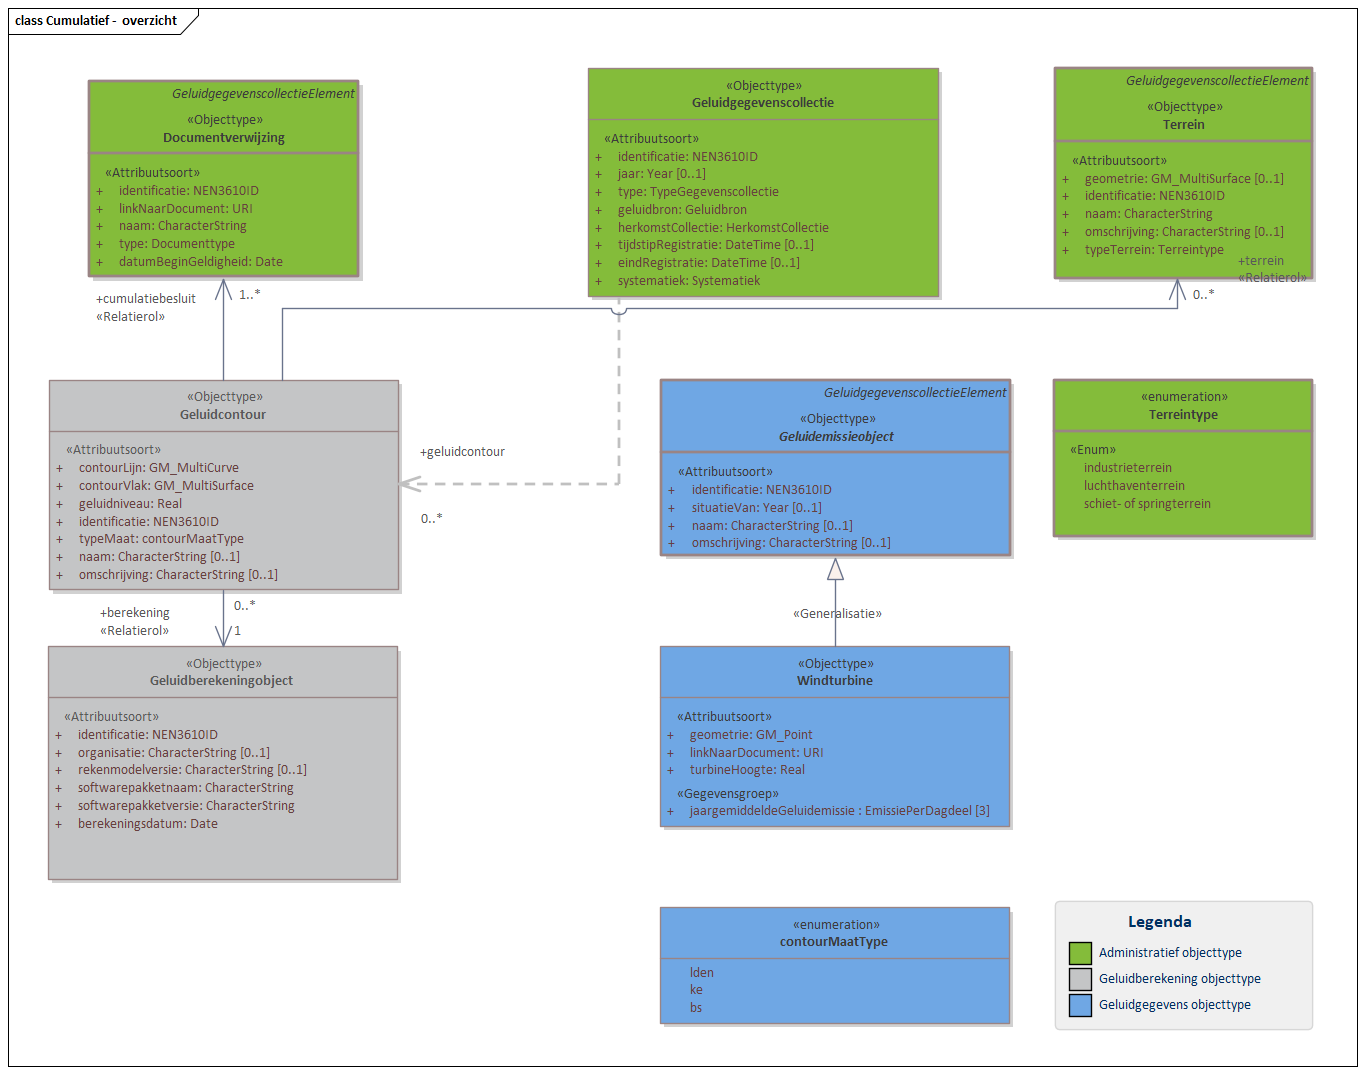
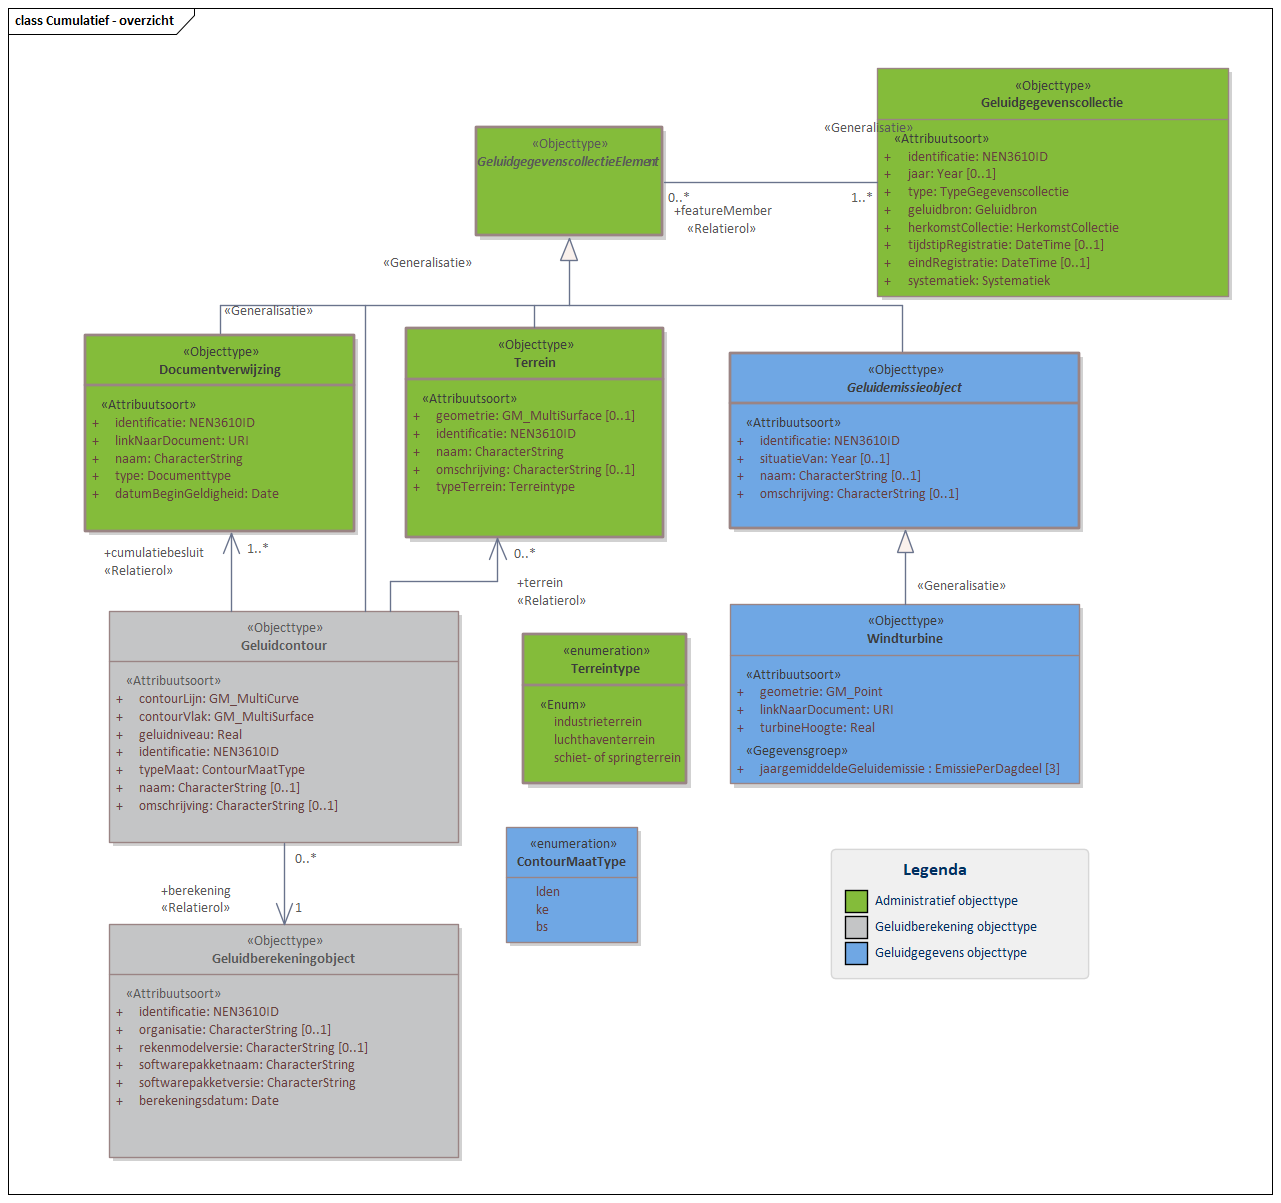
MIMLM-InformatiemodelGeluid-1.0-0-20210319-20210416-110558

diff --git a/data/img-cat.respec.html b/data/img-cat.respec.html
@@ -1,10 +1,10 @@
 
 <section id="cat" class="normative">
    <h2>Gegevensdefinitie</h2>
-   <!--MIMLM-InformatiemodelGeluid-1.0-0-20210319-20210416-085432 imvertor 1.61.3-->
+   <!--MIMLM-InformatiemodelGeluid-1.0-0-20210319-20210416-110558 imvertor 1.61.3-->
    <section id="EAID_66AE8FA2_74FC_4d4d_B2B2_249C8D6A651F">
       <h3>Diagram   Basismodel - overzicht</h3>
-      <div class="imageinfo overview"><img src="data/Images/EAID_66AE8FA2_74FC_4d4d_B2B2_249C8D6A651F.png" usemap="#imagemap-EAID_66AE8FA2_74FC_4d4d_B2B2_249C8D6A651F" alt="Diagram Het Basismodel vormt de samenhang tussen alle domeinen van het IMGeluid. Alle objecttypen en relaties uit het IMGeluid komen samen in een Geluidgegevenscollectie.&#xA;Binnen het IMGeluid worden geluidbrongegevens die gebruikt worden voor GPP en BGE berekeningen, gemodelleerd als een Geluidemissie of Geluidoverdrachtobject. De resultaten van GPP of BGE berekeningen worden opgeslagen in een Geluidgegevenscollectie. De onderliggende juridische vastleggingen, vaststellingen, of monitoringsverslagen van deze omgevings- of monitoringswaarden, worden ook opgeslagen in dezelfde Geluidgegevenscollectie.&#xA;Per geluidbron per toepassing kan er een Geluidgegevenscollectie bestaan. Deze kan geassocieerd worden met maximaal 1 Geluidaandachtsgebied. Wanneer geluidgegevens met betrekking tot cumulatieberekeningen worden aangeleverd, bevat een Geluidgegevenscollectie geen Geluidaandachtsgebied.&#xA;&#xA;&#xA;Klik met de rechtermuisknop op het diagram om de afbeelding op volledige grote in een nieuw tabblad te openen."><map name="imagemap-EAID_66AE8FA2_74FC_4d4d_B2B2_249C8D6A651F"><area shape="rect" alt="GeluidgegevenscollectieElement" coords="411,164,648,260" href="#graph_EAID_924BD078_D715_461a_B7E9_D7176A7406E0"><area shape="rect" alt="Monitoringresultaat" coords="679,858,958,1010" href="#graph_EAID_BA00B77B_D408_4590_8185_CE59E5838F1E"><area shape="rect" alt="Basisgeluidemissieobject" coords="190,890,495,1026" href="#graph_EAID_9AD15457_4880_42e5_8C72_4E5EFAC91B15"><area shape="rect" alt="Geluidproductieplafondobject" coords="1166,782,1451,1045" href="#graph_EAID_237408F8_8CE9_4828_B8FB_1A5B8C917622"><area shape="rect" alt="Geluidberekeningobject" coords="679,1118,994,1317" href="#graph_EAID_97ED59FE_9FCA_49a6_8F07_214E48000B76"><area shape="rect" alt="Documentverwijzing" coords="746,503,1003,678" href="#graph_EAID_7E137496_1028_4af5_9367_569358A2167B"><area shape="rect" alt="Geluidaandachtsgebied" coords="1266,283,1512,422" href="#graph_EAID_B06128AC_518C_4e26_88E5_14ED5A050A19"><area shape="rect" alt="Geluidgegevenscollectie" coords="812,68,1155,297" href="#graph_EAID_313C5AF9_49B8_4860_9E65_DE7C70084864"><area shape="rect" alt="Geluidemissieobject" coords="171,409,437,569" href="#graph_EAID_361C96BA_A638_494e_80BA_590ED481A81B"><area shape="rect" alt="Geluidoverdrachtobject" coords="197,622,476,758" href="#graph_EAID_2FEA326B_B7E7_48a4_B50F_00CCB2694677"></map><p><b>Basismodel - overzicht</b> — Het Basismodel vormt de samenhang tussen alle domeinen van het IMGeluid. Alle objecttypen
+      <div class="imageinfo overview"><img src="data/Images/EAID_66AE8FA2_74FC_4d4d_B2B2_249C8D6A651F.png" usemap="#imagemap-EAID_66AE8FA2_74FC_4d4d_B2B2_249C8D6A651F" alt="Diagram Het Basismodel vormt de samenhang tussen alle domeinen van het IMGeluid. Alle objecttypen en relaties uit het IMGeluid komen samen in een Geluidgegevenscollectie.&#xA;Binnen het IMGeluid worden geluidbrongegevens die gebruikt worden voor GPP en BGE berekeningen, gemodelleerd als een Geluidemissie of Geluidoverdrachtobject. De resultaten van GPP of BGE berekeningen worden opgeslagen in een Geluidgegevenscollectie. De onderliggende juridische vastleggingen, vaststellingen, of monitoringsverslagen van deze omgevings- of monitoringswaarden, worden ook opgeslagen in dezelfde Geluidgegevenscollectie.&#xA;Per geluidbron per toepassing kan er een Geluidgegevenscollectie bestaan. Deze kan geassocieerd worden met maximaal 1 Geluidaandachtsgebied. Wanneer geluidgegevens met betrekking tot cumulatieberekeningen worden aangeleverd, bevat een Geluidgegevenscollectie geen Geluidaandachtsgebied.&#xA;&#xA;&#xA;Klik met de rechtermuisknop op het diagram om de afbeelding op volledige grote in een nieuw tabblad te openen."><map name="imagemap-EAID_66AE8FA2_74FC_4d4d_B2B2_249C8D6A651F"><area shape="rect" alt="GeluidgegevenscollectieElement" coords="477,164,713,260" href="#graph_EAID_924BD078_D715_461a_B7E9_D7176A7406E0"><area shape="rect" alt="Monitoringresultaat" coords="745,858,1024,1010" href="#graph_EAID_BA00B77B_D408_4590_8185_CE59E5838F1E"><area shape="rect" alt="Basisgeluidemissieobject" coords="256,890,560,1026" href="#graph_EAID_9AD15457_4880_42e5_8C72_4E5EFAC91B15"><area shape="rect" alt="Geluidproductieplafondobject" coords="1231,782,1517,1045" href="#graph_EAID_237408F8_8CE9_4828_B8FB_1A5B8C917622"><area shape="rect" alt="Geluidberekeningobject" coords="745,1118,1059,1317" href="#graph_EAID_97ED59FE_9FCA_49a6_8F07_214E48000B76"><area shape="rect" alt="Documentverwijzing" coords="812,503,1069,678" href="#graph_EAID_7E137496_1028_4af5_9367_569358A2167B"><area shape="rect" alt="Geluidaandachtsgebied" coords="1331,283,1577,422" href="#graph_EAID_B06128AC_518C_4e26_88E5_14ED5A050A19"><area shape="rect" alt="Geluidgegevenscollectie" coords="877,68,1220,297" href="#graph_EAID_313C5AF9_49B8_4860_9E65_DE7C70084864"><area shape="rect" alt="Geluidemissieobject" coords="236,409,503,569" href="#graph_EAID_361C96BA_A638_494e_80BA_590ED481A81B"><area shape="rect" alt="Geluidoverdrachtobject" coords="262,622,541,758" href="#graph_EAID_2FEA326B_B7E7_48a4_B50F_00CCB2694677"></map><p><b>Basismodel - overzicht</b> — Het Basismodel vormt de samenhang tussen alle domeinen van het IMGeluid. Alle objecttypen
             en relaties uit het IMGeluid komen samen in een Geluidgegevenscollectie.
             Binnen het IMGeluid worden geluidbrongegevens die gebruikt worden voor GPP en BGE
             berekeningen, gemodelleerd als een Geluidemissie of Geluidoverdrachtobject. De resultaten
@@ -79,7 +79,7 @@
    </section>
    <section id="EAID_33DF05AD_62E8_41d4_8CC0_8980CB80739F">
       <h3>Diagram   GPP Spoor - overzicht</h3>
-      <div class="imageinfo overview"><img src="data/Images/EAID_33DF05AD_62E8_41d4_8CC0_8980CB80739F.png" usemap="#imagemap-EAID_33DF05AD_62E8_41d4_8CC0_8980CB80739F" alt="Diagram In domeinmodel GPP Spoor staan objecttypen en relaties die relevant zijn voor geluidbronbeheersing van spoorwegen waarvoor de geluidproductieplafond regeling geldt; en die nodig zijn voor akoestisch onderzoek binnen het geluidaandachtsgebied van spoorwegen.&#xA;Geluidbronnen binnen GPP Spoor worden opgeslagen als lijnbron conform het object SpoordeelGPP, behalve voor geluidbronnen binnen spoorwegemplacementen. Deze geluidbronnen worden opgeslagen als GeluidbronIndustrie.&#xA;Voor ieder Geluidproductieplafondobject langs een Hoofdspoorweg, valt te herleiden op welke geluidberekening de geluidproductieplafondwaarde gebaseerd is. Deze informatie wordt bijgehouden conform het Geluidberekeningobject.&#xA;Ook valt er te herleiden welke geluidbrongegevens gebruikt zijn bij een geluidberekening. Deze geluidbrongegevens zijn samen met het Geluidberekeningsobject terug te vinden in een  Geluidgegevenscollectie in de vorm van gespecialiseerde geluidemissie- en geluidoverdrachtsobjecten.&#xA;&#xA;Klik met de rechtermuisknop op het diagram om de afbeelding op volledige grote in een nieuw tabblad te openen&#xA;"><map name="imagemap-EAID_33DF05AD_62E8_41d4_8CC0_8980CB80739F"><area shape="rect" alt="Geluidgegevenscollectie" coords="963,286,1220,514" href="#graph_EAID_313C5AF9_49B8_4860_9E65_DE7C70084864"><area shape="rect" alt="Monitoringresultaat" coords="925,836,1219,994" href="#graph_EAID_BA00B77B_D408_4590_8185_CE59E5838F1E"><area shape="rect" alt="GeluidbronIndustrie" coords="536,339,907,585" href="#graph_EAID_7B6D3D2D_0C70_435a_AAFC_FABC9CD61353"><area shape="rect" alt="Kunstwerk" coords="359,1149,642,1261" href="#graph_EAID_E7C0AB60_EC07_4e4f_8F38_E279188D028A"><area shape="rect" alt="Overkapping" coords="220,1357,368,1419" href="#graph_EAID_68402E1D_9370_4bd4_87E6_A21FD883E5B5"><area shape="rect" alt="Tunnelbak" coords="387,1357,633,1464" href="#graph_EAID_5A041C70_3BE7_4273_87C7_341981B09801"><area shape="rect" alt="Tunnel" coords="938,1357,1040,1416" href="#graph_EAID_52FB0AD2_D680_41f5_A4E8_979EF928F841"><area shape="rect" alt="Brug" coords="661,1357,907,1507" href="#graph_EAID_F36131A1_FE84_4230_B41A_3E55575D3C80"><area shape="rect" alt="GeluidschermSpoor" coords="83,1138,340,1248" href="#graph_EAID_4CA66C5A_E8E1_47ea_93A7_C2D7986C8DBD"><area shape="rect" alt="Hoogtelijnspecificatie" coords="538,995,845,1117" href="#graph_EAID_B01AA864_A542_404a_908D_E23998395B87"><area shape="rect" alt="Geluidemissieobject" coords="456,68,694,247" href="#graph_EAID_361C96BA_A638_494e_80BA_590ED481A81B"><area shape="rect" alt="Geluidoverdrachtobject" coords="368,605,605,763" href="#graph_EAID_2FEA326B_B7E7_48a4_B50F_00CCB2694677"><area shape="rect" alt="Geluidberekeningobject" coords="1108,1117,1458,1350" href="#graph_EAID_97ED59FE_9FCA_49a6_8F07_214E48000B76"><area shape="rect" alt="Documentverwijzing" coords="922,575,1193,772" href="#graph_EAID_7E137496_1028_4af5_9367_569358A2167B"><area shape="rect" alt="Geluidaandachtsgebied" coords="1364,316,1676,466" href="#graph_EAID_B06128AC_518C_4e26_88E5_14ED5A050A19"><area shape="rect" alt="Geluidproductieplafondobject" coords="1294,605,1606,891" href="#graph_EAID_237408F8_8CE9_4828_B8FB_1A5B8C917622"><area shape="rect" alt="SpoordeelGPP" coords="96,359,467,575" href="#graph_EAID_711C94BB_E0F7_40e5_A41A_C53DB13272C3"><area shape="rect" alt="Geluidschermdeel" coords="83,860,354,1078" href="#graph_EAID_BC342A75_1053_4086_9B42_321F22E3FA82"><area shape="rect" alt="Hoogtelijn" coords="540,853,846,959" href="#graph_EAID_CE3003A0_5F16_4630_B2A6_519B33439135"></map><p><b>GPP Spoor - overzicht</b> — In domeinmodel GPP Spoor staan objecttypen en relaties die relevant zijn voor geluidbronbeheersing
+      <div class="imageinfo overview"><img src="data/Images/EAID_33DF05AD_62E8_41d4_8CC0_8980CB80739F.png" usemap="#imagemap-EAID_33DF05AD_62E8_41d4_8CC0_8980CB80739F" alt="Diagram In domeinmodel GPP Spoor staan objecttypen en relaties die relevant zijn voor geluidbronbeheersing van spoorwegen waarvoor de geluidproductieplafond regeling geldt; en die nodig zijn voor akoestisch onderzoek binnen het geluidaandachtsgebied van spoorwegen.&#xA;Geluidbronnen binnen GPP Spoor worden opgeslagen als lijnbron conform het object SpoordeelGPP, behalve voor geluidbronnen binnen spoorwegemplacementen. Deze geluidbronnen worden opgeslagen als GeluidbronIndustrie.&#xA;Voor ieder Geluidproductieplafondobject langs een Hoofdspoorweg, valt te herleiden op welke geluidberekening de geluidproductieplafondwaarde gebaseerd is. Deze informatie wordt bijgehouden conform het Geluidberekeningobject.&#xA;Ook valt er te herleiden welke geluidbrongegevens gebruikt zijn bij een geluidberekening. Deze geluidbrongegevens zijn samen met het Geluidberekeningsobject terug te vinden in een  Geluidgegevenscollectie in de vorm van gespecialiseerde geluidemissie- en geluidoverdrachtsobjecten.&#xA;&#xA;Klik met de rechtermuisknop op het diagram om de afbeelding op volledige grote in een nieuw tabblad te openen&#xA;"><map name="imagemap-EAID_33DF05AD_62E8_41d4_8CC0_8980CB80739F"><area shape="rect" alt="Geluidgegevenscollectie" coords="962,286,1219,514" href="#graph_EAID_313C5AF9_49B8_4860_9E65_DE7C70084864"><area shape="rect" alt="Monitoringresultaat" coords="924,836,1218,994" href="#graph_EAID_BA00B77B_D408_4590_8185_CE59E5838F1E"><area shape="rect" alt="GeluidbronIndustrie" coords="534,339,906,585" href="#graph_EAID_7B6D3D2D_0C70_435a_AAFC_FABC9CD61353"><area shape="rect" alt="Kunstwerk" coords="358,1149,641,1261" href="#graph_EAID_E7C0AB60_EC07_4e4f_8F38_E279188D028A"><area shape="rect" alt="Overkapping" coords="219,1357,366,1419" href="#graph_EAID_68402E1D_9370_4bd4_87E6_A21FD883E5B5"><area shape="rect" alt="Tunnelbak" coords="385,1357,631,1464" href="#graph_EAID_5A041C70_3BE7_4273_87C7_341981B09801"><area shape="rect" alt="Tunnel" coords="936,1357,1039,1416" href="#graph_EAID_52FB0AD2_D680_41f5_A4E8_979EF928F841"><area shape="rect" alt="Brug" coords="660,1357,906,1507" href="#graph_EAID_F36131A1_FE84_4230_B41A_3E55575D3C80"><area shape="rect" alt="GeluidschermSpoor" coords="82,1138,339,1248" href="#graph_EAID_4CA66C5A_E8E1_47ea_93A7_C2D7986C8DBD"><area shape="rect" alt="Hoogtelijnspecificatie" coords="537,995,843,1117" href="#graph_EAID_B01AA864_A542_404a_908D_E23998395B87"><area shape="rect" alt="Geluidemissieobject" coords="455,68,693,247" href="#graph_EAID_361C96BA_A638_494e_80BA_590ED481A81B"><area shape="rect" alt="Geluidoverdrachtobject" coords="366,605,604,763" href="#graph_EAID_2FEA326B_B7E7_48a4_B50F_00CCB2694677"><area shape="rect" alt="Geluidberekeningobject" coords="1107,1117,1457,1350" href="#graph_EAID_97ED59FE_9FCA_49a6_8F07_214E48000B76"><area shape="rect" alt="Documentverwijzing" coords="921,575,1192,772" href="#graph_EAID_7E137496_1028_4af5_9367_569358A2167B"><area shape="rect" alt="Geluidaandachtsgebied" coords="1363,316,1674,466" href="#graph_EAID_B06128AC_518C_4e26_88E5_14ED5A050A19"><area shape="rect" alt="Geluidproductieplafondobject" coords="1293,605,1604,891" href="#graph_EAID_237408F8_8CE9_4828_B8FB_1A5B8C917622"><area shape="rect" alt="SpoordeelGPP" coords="94,359,466,575" href="#graph_EAID_711C94BB_E0F7_40e5_A41A_C53DB13272C3"><area shape="rect" alt="Geluidschermdeel" coords="82,860,353,1078" href="#graph_EAID_BC342A75_1053_4086_9B42_321F22E3FA82"><area shape="rect" alt="Hoogtelijn" coords="538,853,845,959" href="#graph_EAID_CE3003A0_5F16_4630_B2A6_519B33439135"></map><p><b>GPP Spoor - overzicht</b> — In domeinmodel GPP Spoor staan objecttypen en relaties die relevant zijn voor geluidbronbeheersing
             van spoorwegen waarvoor de geluidproductieplafond regeling geldt; en die nodig zijn
             voor akoestisch onderzoek binnen het geluidaandachtsgebied van spoorwegen.
             Geluidbronnen binnen GPP Spoor worden opgeslagen als lijnbron conform het object SpoordeelGPP,
@@ -115,6 +115,19 @@
             Klik met de rechtermuisknop op het diagram om de afbeelding op volledige grote in
             een nieuw tabblad te openen
             </p>
+      </div>
+   </section>
+   <section id="EAID_0C92279C_28A6_4454_84DC_4ACAECE11937">
+      <h3>Diagram   Cumulatief - overzicht</h3>
+      <div class="imageinfo overview"><img src="data/Images/EAID_0C92279C_28A6_4454_84DC_4ACAECE11937.png" usemap="#imagemap-EAID_0C92279C_28A6_4454_84DC_4ACAECE11937" alt="Diagram In domeinmodel Cumulatief staan objecttypen en relaties ten behoeve van het uitvoeren van cumulatie van geluid. Voor luchthavens en schiet- of springterreinen betreft het geluidcontouren; voor windturbines betreft het geluidbrongegevens. &#xA;Een Geluidgegevenscollectie van cumulatieve gegevens bevat geen geluidaandachtsgebied. Informatie over de berekening van geluidcontouren wordt opgenomen in het geluidregister. &#xA;&#xA;Klik met de rechtermuisknop op het diagram om de afbeelding op volledige grote in een nieuw tabblad te openen."><map name="imagemap-EAID_0C92279C_28A6_4454_84DC_4ACAECE11937"><area shape="rect" alt="GeluidgegevenscollectieElement" coords="476,127,663,236" href="#graph_EAID_924BD078_D715_461a_B7E9_D7176A7406E0"><area shape="rect" alt="Terreintype" coords="523,634,687,784" href="#graph_EAID_77370E17_8492_4c58_9D1A_B6E09697F834"><area shape="rect" alt="Terrein" coords="406,328,664,538" href="#graph_EAID_3CF82A2D_EBD2_45f5_BDBF_6B65612322CD"><area shape="rect" alt="Geluidemissieobject" coords="730,353,1080,529" href="#graph_EAID_361C96BA_A638_494e_80BA_590ED481A81B"><area shape="rect" alt="Documentverwijzing" coords="85,335,355,532" href="#graph_EAID_7E137496_1028_4af5_9367_569358A2167B"><area shape="rect" alt="Geluidgegevenscollectie" coords="877,68,1229,297" href="#graph_EAID_313C5AF9_49B8_4860_9E65_DE7C70084864"><area shape="rect" alt="Windturbine" coords="730,604,1080,784" href="#graph_EAID_DBD69202_F9F6_4121_99E0_A194D53BB62F"><area shape="rect" alt="ContourMaatType" coords="506,827,638,943" href="#graph_EAID_F0EBEC48_6162_4681_86C7_ECC93055F37A"><area shape="rect" alt="Geluidcontour" coords="109,611,459,843" href="#graph_EAID_593AE084_D3EF_403b_9863_496FC269DC87"><area shape="rect" alt="Geluidberekeningobject" coords="109,924,459,1158" href="#graph_EAID_97ED59FE_9FCA_49a6_8F07_214E48000B76"></map><p><b>Cumulatief - overzicht</b> — In domeinmodel Cumulatief staan objecttypen en relaties ten behoeve van het uitvoeren
+            van cumulatie van geluid. Voor luchthavens en schiet- of springterreinen betreft het
+            geluidcontouren; voor windturbines betreft het geluidbrongegevens. 
+            Een Geluidgegevenscollectie van cumulatieve gegevens bevat geen geluidaandachtsgebied.
+            Informatie over de berekening van geluidcontouren wordt opgenomen in het geluidregister.
+            
+            
+            Klik met de rechtermuisknop op het diagram om de afbeelding op volledige grote in
+            een nieuw tabblad te openen.</p>
       </div>
    </section>
    <section id="">
@@ -2334,7 +2347,7 @@
                         hoort.</p>
                      </td>
                   <td>
-                     <a class="link" href="#global_class_IMGeluidAlgemeen_contourMaatType">contourMaatType</a>
+                     <a class="link" href="#global_class_IMGeluidAlgemeen_ContourMaatType">ContourMaatType</a>
                      </td>
                   <td>1</td>
                </tr>
@@ -2425,6 +2438,20 @@
                   <td>
                      
                      <p>0 of meer Geluidcontouren worden berekend in 1 of meer Berekeningen.</p>
+                     </td>
+               </tr>
+               <tr>
+                  <td>
+                     Geluidcontour
+                     is specialisatie van
+                     
+                     <a class="link" href="#global_class_IMGeluidAlgemeen_GeluidgegevenscollectieElement">GeluidgegevenscollectieElement</a>
+                     
+                     </td>
+                  <td>
+                     
+                     <p>Basiselement om aan te geven dat een object deel kan uitmaken van een Geluidgegevenscollectie.
+                        Alleen objecten die deze klasse als superklasse hebben kunnen deel zijn van een Geluidgegevenscollectie.</p>
                      </td>
                </tr>
             </tbody>
@@ -7858,7 +7885,7 @@
                   </td>
             </tr>
             <tr>
-               <th><a class="anchor" id="graph_EAID_F0EBEC48_6162_4681_86C7_ECC93055F37A"></a><a class="anchor" id="global_class_IMGeluidAlgemeen_contourMaatType"></a><a class="link" href="#detail_class_IMGeluidAlgemeen_contourMaatType">contourMaatType</a></th>
+               <th><a class="anchor" id="graph_EAID_F0EBEC48_6162_4681_86C7_ECC93055F37A"></a><a class="anchor" id="global_class_IMGeluidAlgemeen_ContourMaatType"></a><a class="link" href="#detail_class_IMGeluidAlgemeen_ContourMaatType">ContourMaatType</a></th>
                <td>
                   
                   <p>Lijst van bestaande contour types in categorie overig waarvoor een geluidcontour kan
@@ -11390,7 +11417,7 @@
                      </tr>
                      <tr>
                         <th>Type</th>
-                        <td>contourMaatType</td>
+                        <td>ContourMaatType</td>
                      </tr>
                   </tbody>
                </table>
@@ -22077,7 +22104,7 @@
 </section>
 <section id="lis" class="normative">
    <h2>Inhoud van waardenlijsten</h2>
-   <!--MIMLM-InformatiemodelGeluid-1.0-0-20210319-20210416-085432 imvertor 1.61.3--><a class="anchor" id="graph_EAID_C9ACE184_6E2B_40c1_ACE0_A7C5EE554EF9"></a><a class="anchor" id="detail_class_IMGeluidAlgemeen_Schermtype"></a><section id="detail_class_IMGeluidAlgemeen_Schermtype">
+   <!--MIMLM-InformatiemodelGeluid-1.0-0-20210319-20210416-110558 imvertor 1.61.3--><a class="anchor" id="graph_EAID_C9ACE184_6E2B_40c1_ACE0_A7C5EE554EF9"></a><a class="anchor" id="detail_class_IMGeluidAlgemeen_Schermtype"></a><section id="detail_class_IMGeluidAlgemeen_Schermtype">
       <h3>Enumeratie details  Schermtype</h3>
       
       <table style="width: 100%;" class="list">
@@ -23446,8 +23473,8 @@
             </tr>
          </tbody>
       </table>
-      </section><a class="anchor" id="graph_EAID_F0EBEC48_6162_4681_86C7_ECC93055F37A"></a><a class="anchor" id="detail_class_IMGeluidAlgemeen_contourMaatType"></a><section id="detail_class_IMGeluidAlgemeen_contourMaatType">
-      <h3>Enumeratie details  contourMaatType</h3>
+      </section><a class="anchor" id="graph_EAID_F0EBEC48_6162_4681_86C7_ECC93055F37A"></a><a class="anchor" id="detail_class_IMGeluidAlgemeen_ContourMaatType"></a><section id="detail_class_IMGeluidAlgemeen_ContourMaatType">
+      <h3>Enumeratie details  ContourMaatType</h3>
       
       <table style="width: 100%;" class="list">
          <colgroup></colgroup>
